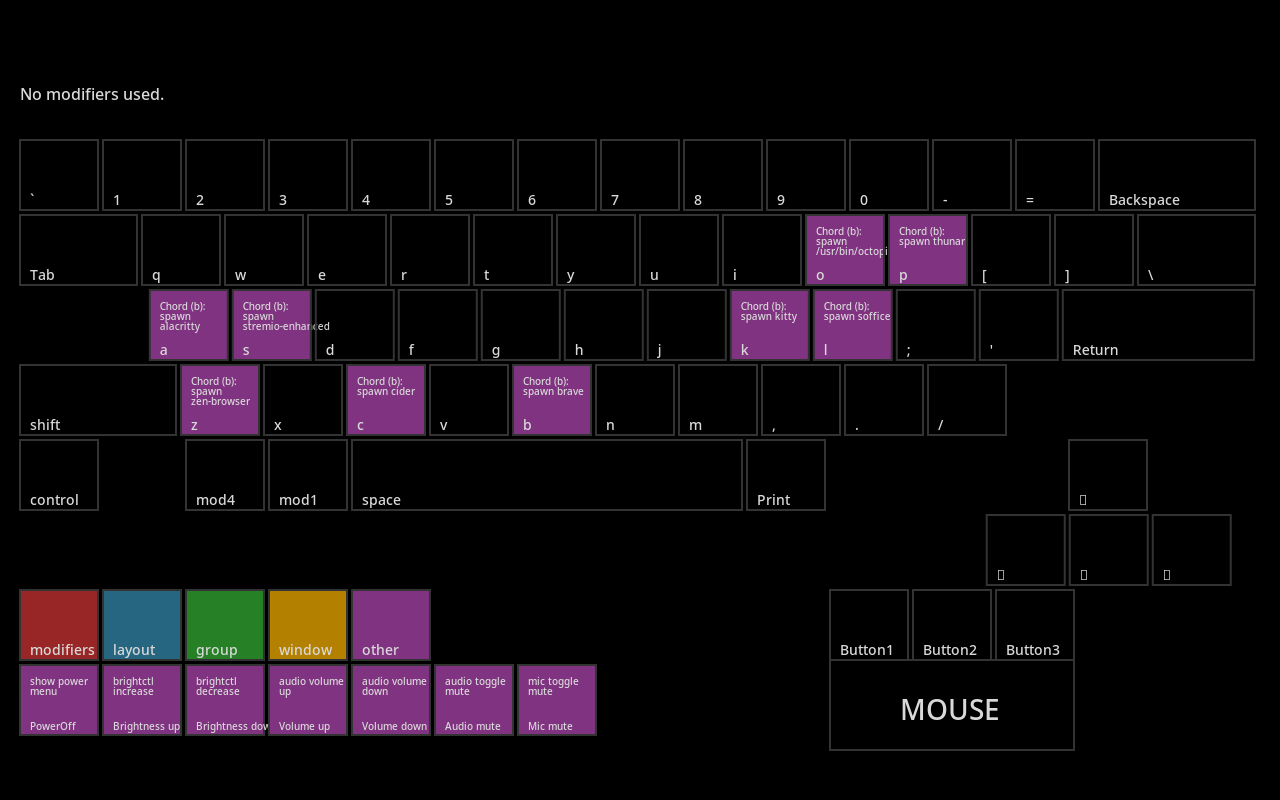
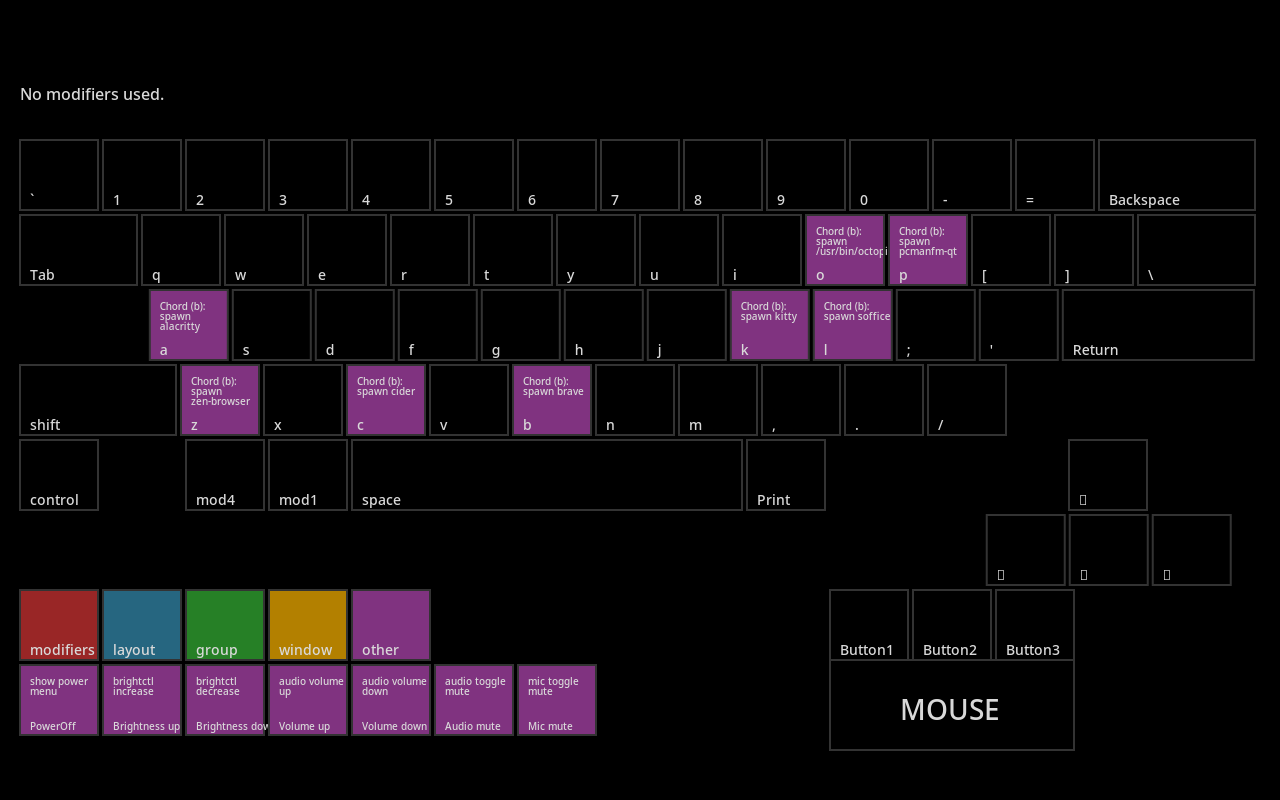
docs: Update README with detailed config descriptions
Refactor Qtile scratchpad to use Thunar instead of PCManFM.
Adjust image paths in Qtile, replacing old wallpapers and adding new ones.

Changed region(s): [[0.1562, 0.3438, 0.25, 0.4688], [0.7188, 0.2812, 0.75, 0.3438]]

diff --git a/wm/.config/qtile/groups.py b/wm/.config/qtile/groups.py
@@ -198,8 +198,8 @@ scratchpad = ScratchPad(
             opacity=1,
         ),
         DropDown(
-            "pcmanfm-qt",
-            "pcmanfm-qt",
+            "thunar",
+            "thunar",
             width=0.7,
             height=0.7,
             x=0.15,
@@ -228,7 +228,7 @@ scratch_keys = {
     "localsend": "l",
     "obsidian": "o",
     "pavucontrol-qt": "v",
-    "pcmanfm-qt": "f",
+    "thunar": "f",
     "keybindings": "k",
 }
 

diff --git a/wm/.config/qtile/keys.py b/wm/.config/qtile/keys.py
@@ -87,7 +87,6 @@ keys += [
             Key([], "p", lazy.spawn("thunar")),
             Key([], "z", lazy.spawn("zen-browser")),
             Key([], "c", lazy.spawn("cider")),
-            Key([], "s", lazy.spawn("stremio-enhanced")),
             Key([], "b", lazy.spawn("brave")),
         ],
     )

diff --git a/README.md b/README.md
@@ -1,28 +1,48 @@
 # Arch Qtile Dotfiles
 
-This repository contains my personal dotfiles for a suckless-inspired approach.
-Specifically tailored for [Arch Linux](https://archlinux.org/) and [Qtile](https://qtile.org/).
-The configs are for various tools and environments, ensuring
-a streamlined and personalized experience across my Linux setup.
+This repository contains my personal dotfiles, tailored for an Arch Linux environment running the Qtile window manager. The configurations are designed for a dark, efficient, and visually consistent workflow across various applications, with a "suckless-inspired" philosophy.
 
 ## Key Configurations
 
-- **Window Manager ([Qtile](https://qtile.org/)):** The [Qtile setup](wm/.config/qtile/config.py) features a multi-screen configuration with custom bars, layouts (`MonadTall`, `MonadWide`, `MonadThreeCol`), and a startup script for essential applications.
-- **Terminal ([Kitty](https://sw.kovidgoyal.net/kitty/)):** [Kitty](terminal/.config/kitty/kitty.conf) is the primary terminal emulator, configured with "JetBrainsMonoNL Nerd Font," a powerline-style tab bar, and custom keybindings for a streamlined workflow.
-- **Shell ([Zsh](https://www.zsh.org/)):** The [Zsh configuration](shell/.zshrc) is managed by `zim` and includes numerous aliases, `fzf`-integrated functions, and a customized `starship` prompt.
-- **Editor ([Neovim](https://neovim.io/)):** The [Neovim configuration](shell/.config/nvim/init.lua) is managed in Lua and uses `lazy.nvim` for plugin management.
-- **Browser ([Zen Browser](https://github.com/zen-browser/desktop)):** [Zen Browser](browser/.zen/m.Default%20(release)/user.js) is configured for a minimal and privacy-focused experience, with a dark mode, GTK theme integration, and various performance and privacy enhancements.
+### Window Manager (Qtile)
+
+- **Configuration:** [`wm/.config/qtile/config.py`](wm/.config/qtile/config.py)
+- **Description:** The Qtile setup features a multi-screen configuration with custom bars defined in `wm/.config/qtile/bars.py`. It uses a variety of layouts, including `MonadTall`, `MonadWide`, and `MonadThreeCol`. The widgets have been refactored to be more robust and event-driven.
+    - **Battery Widget:** The `BatteryWidget` in `wm/.config/qtile/widgets/battery.py` is a purely event-driven component, using `pyudev` and `select` for listening to power events.
+    - **Audio Widget:** The `BaseAudioWidget` in `wm/.config/qtile/widgets/wpctl.py` is an event-driven PipeWire audio widget using `wpctl subscribe`.
+    - **Brightness Widget:** The `BrightctlWidget` in `wm/.config/qtile/widgets/brightctl.py` uses `brightnessctl` to control screen brightness.
+    - **Scripts:** The `wm/.config/qtile/scripts/` directory contains various utility scripts for autostart, keybinding generation, and monitor setup.
+
+### Terminal (Kitty)
+
+- **Configuration:** [`terminal/.config/kitty/kitty.conf`](terminal/.config/kitty/kitty.conf)
+- **Description:** Kitty is the primary terminal emulator, configured with the "JetBrainsMonoNL Nerd Font". It features a powerline-style tab bar and custom keybindings for a streamlined workflow.
+
+### Shell (Zsh)
+
+- **Configuration:** [`shell/.zshrc`](shell/.zshrc)
+- **Description:** Zsh is configured using `zim` for plugin management. The configuration includes numerous aliases (e.g., `ls` -> `eza`, `cat` -> `bat`), custom functions that integrate with `fzf` for interactive workflows (e.g., `tldrr`, `yayfz`), and a customized `starship` prompt.
+
+### Editor (Neovim)
+
+- **Configuration:** [`shell/.config/nvim/init.lua`](shell/.config/nvim/init.lua)
+- **Description:** Neovim is the primary text editor. The configuration is managed in Lua and uses `lazy.nvim` for plugin management, ensuring a fast and modular setup.
+
+### Browser (Zen Browser)
+
+- **Configuration:** [`browser/.zen/m.Default (release)/user.js`](browser/.zen/m.Default%20(release)/user.js)
+- **Description:** Zen Browser is configured for a minimal and privacy-focused experience, with a dark mode, GTK theme integration, and various performance and privacy enhancements.
 
 ### Theming
 
-- **[GTK/Qt](gtkqt/):** Consistent look and feel across GTK and Qt applications.
-- **[X11](X11/):** Xresources for theming X applications, including a Dracula-OLED theme for XTerm.
+- **GTK/Qt:** Configurations for GTK and Qt applications are managed in the `gtkqt/` directory, ensuring a consistent look and feel.
+- **X11:** The `X11/` directory contains X11-related configurations such as `.xprofile` for session startup and `.Xresources` for X application theming.
 
 ### Other Tools
 
-- **[Rofi](https://github.com/davatorium/rofi):** Application launcher with [custom scripts](wm/.config/rofi/scripts/).
-- **[Dunst](https://dunst-project.org/):** Notification daemon with a [dark theme and custom rules](wm/.config/dunst/dunstrc).
-- **[Picom](https://github.com/yshui/picom):** Lightweight compositor with a [minimal configuration](wm/.config/picom/picom.conf).
+- **Rofi:** Used as an application launcher and for various scripts. The configuration is in `wm/.config/rofi/`.
+- **Dunst:** The notification daemon, configured in `wm/.config/dunst/dunstrc` with a dark theme and custom rules.
+- **Picom:** The compositor, configured in `wm/.config/picom/picom.conf` for a lightweight experience without excessive effects.
 
 ## Usage
 
@@ -36,13 +56,16 @@ This would create symlinks from the files in this repository to their correspond
 
 ## Dependencies
 
-The Qtile configurations and some other scripts within this repository rely
-on the following tools:
+The configurations in this repository rely on several external tools, including:
 
-- [brightnessctl](https://github.com/Hummer12007/brightnessctl) — for screen
-  brightness control (`BrightctlWidget`)
-- [pyudev](https://github.com/pyudev/pyudev) — for monitoring ACPI battery events (`BatteryWidget`)
-- [pipewire](https://pipewire.org) — for low-latency audio/video
-- [wireplumber](https://gitlab.freedesktop.org/pipewire/wireplumber) — for managing audio devices via `wpctl`
-- [stow](https://www.gnu.org/software/stow/) — for managing symlinks and
-  maintaining clean dotfile deployment
+- `brightnessctl`
+- `pyudev`
+- `pipewire`
+- `wireplumber`
+- `stow`
+- `zsh`
+- `neovim`
+- `kitty`
+- `rofi`
+- `dunst`
+- `picom`
